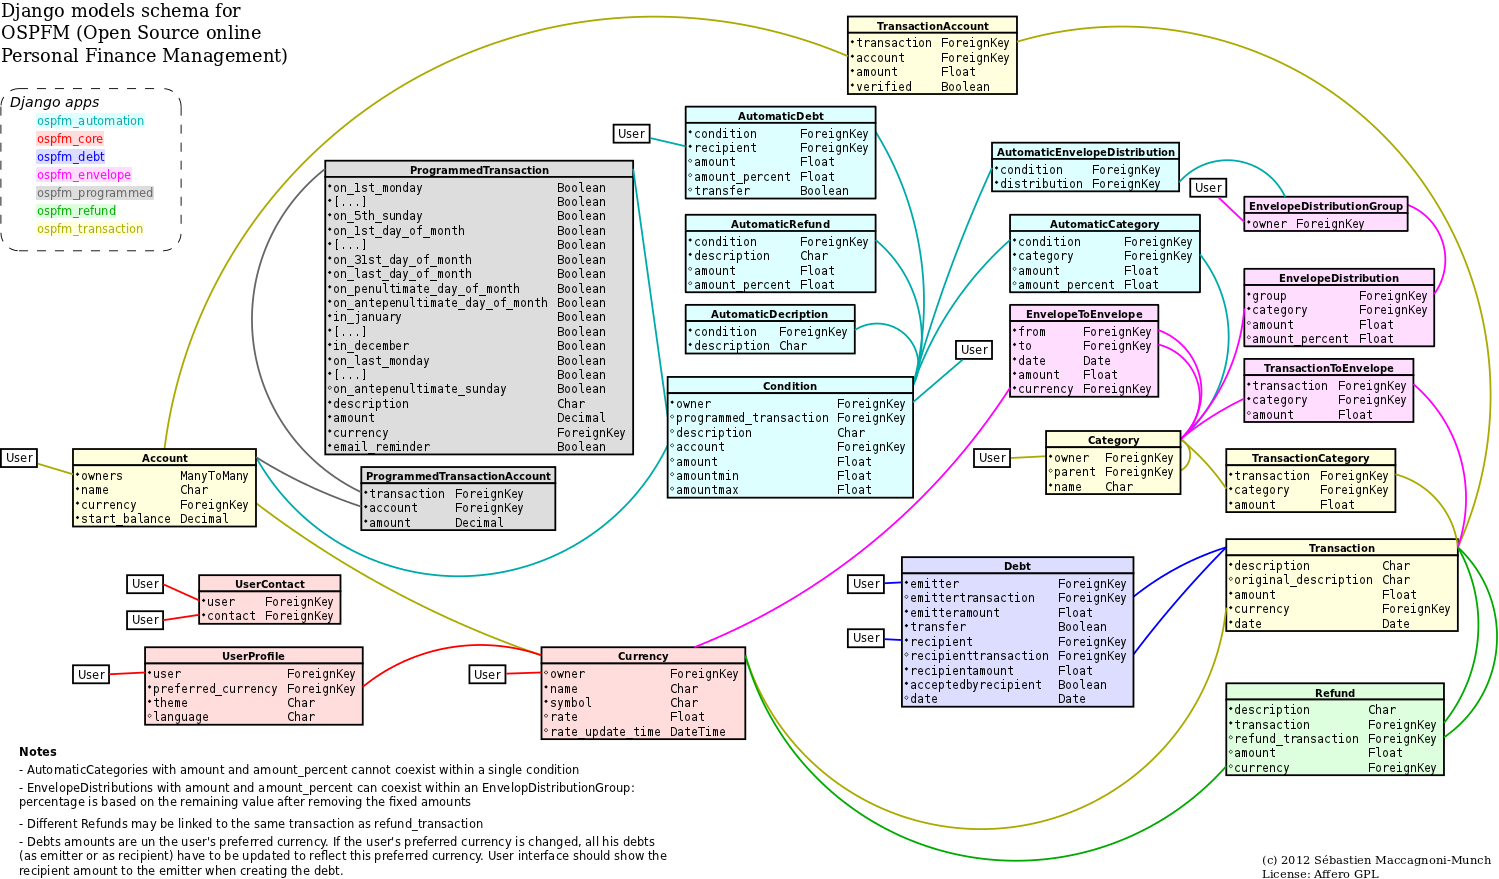
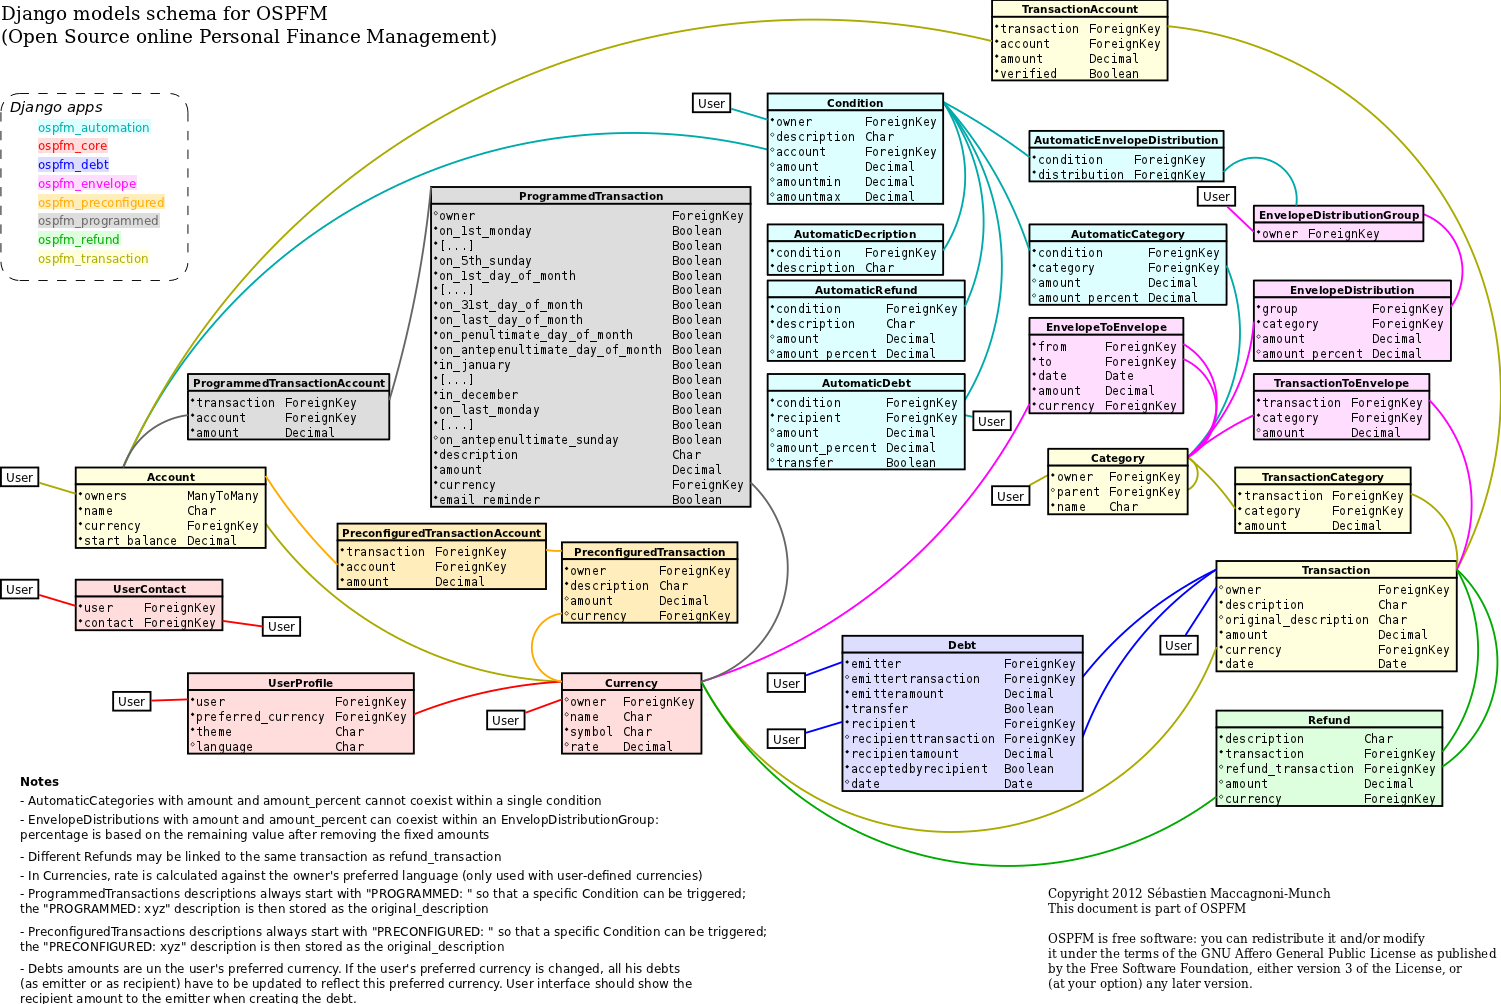
- a transaction should have an owner - added ospfm_preconfigured

diff --git a/doc/ospfm-global-architecture.rst b/doc/ospfm-global-architecture.rst
@@ -39,6 +39,7 @@ These applications are:
 * ``ospfm_core``: core data, not belonging to any other part
 * ``ospfm_debt``: debts between users
 * ``ospfm_envelope``: envelope-oriented budgeting
+* ``ospfm_preconfigured``: preset transactions for easy add
 * ``ospfm_programmed``: programmed transactions
 * ``ospfm_refund``: refunds management (like social protection reimbursements)
 * ``ospfm_transaction``: transactions, accounts, categories
